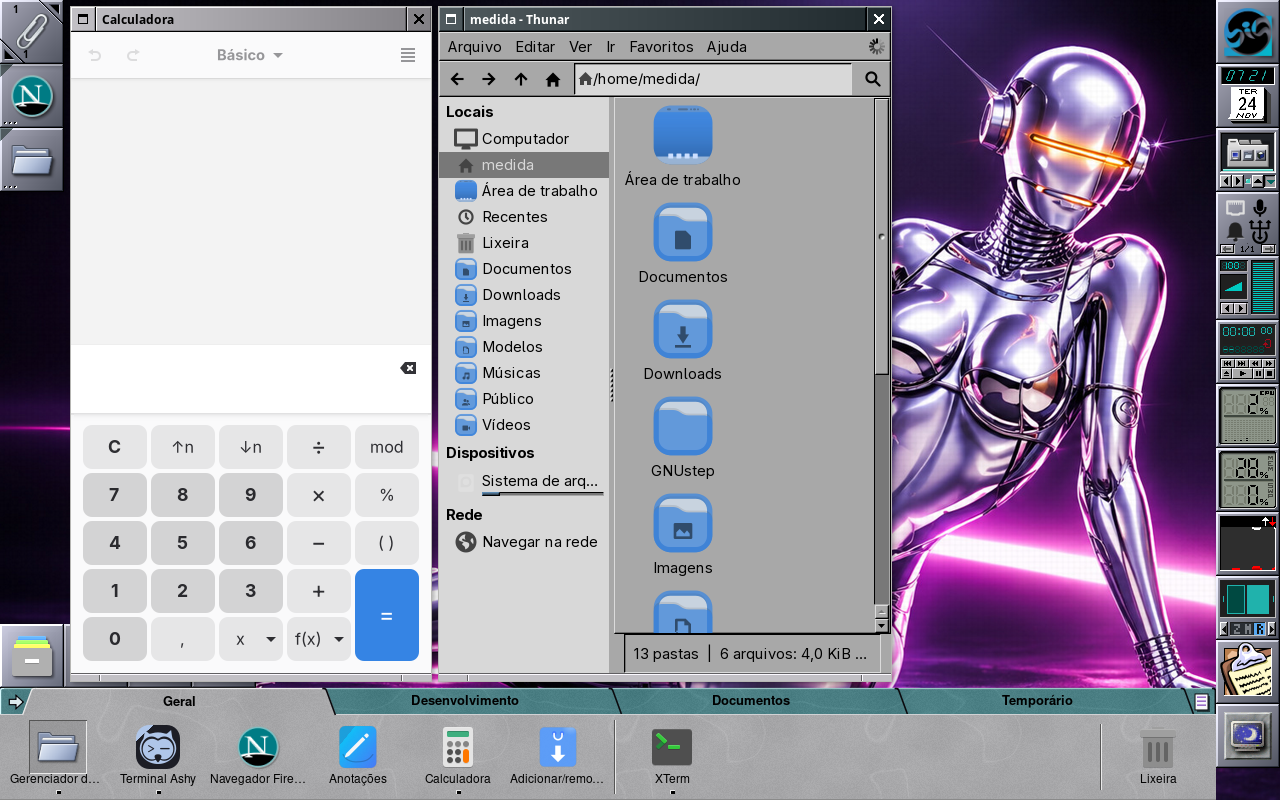
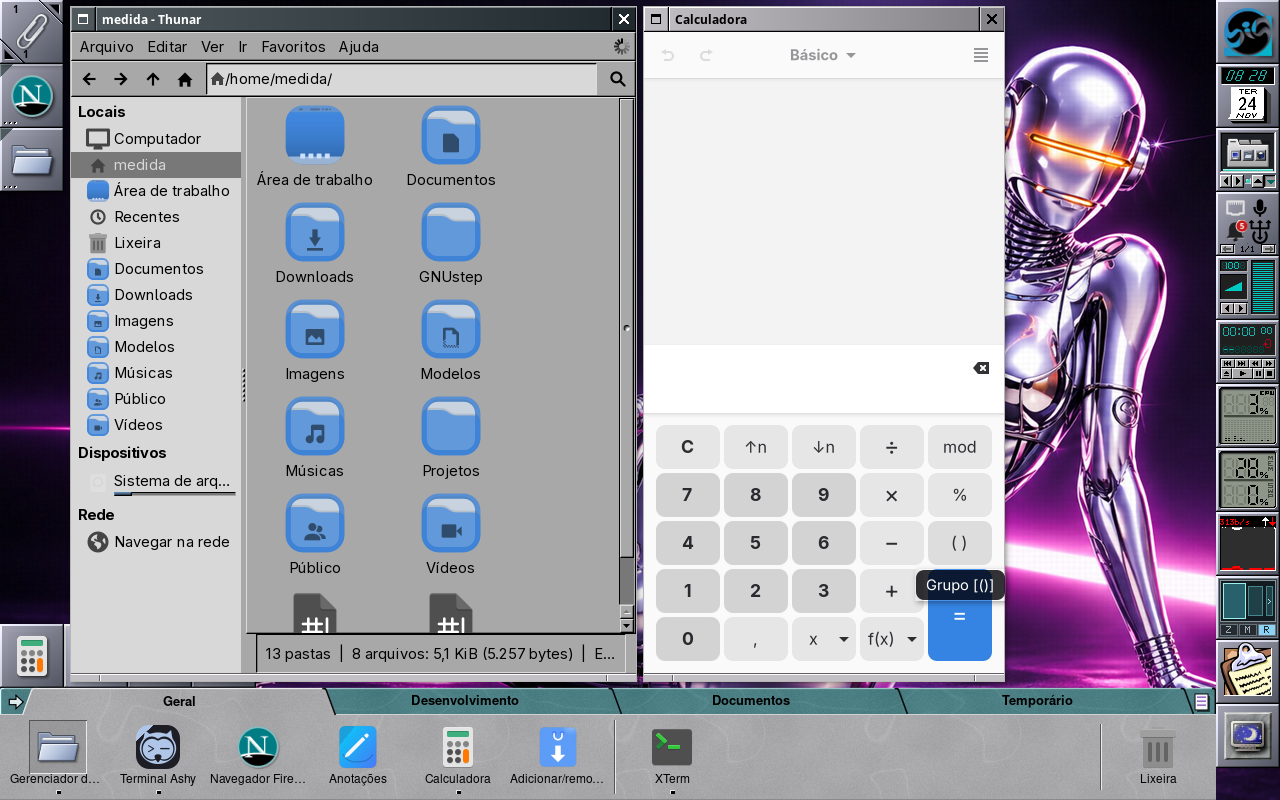
docs: capturas da 0.5.1 na VM (ladrilho do wlmaker e Rolagem no X11)

diff --git a/README.md b/README.md
@@ -75,7 +75,7 @@ sessão real), wmake-zones 0.5.0 e wlmaker -10.
 
 | | |
 |---|---|
-| ![Rolagem no X11: a Calculadora e o Thunar como duas colunas inteiras na tela; o AshyTerm e o xterm esperam fora da tela, e o ladrilho do Dock mostra a tecla R acesa com traços nas bordas para as colunas escondidas](docs/screenshots/x11-rolagem.png) | ![Rolagem no Wayland: o xterm (XWayland) e a Calculadora em colunas, o Thunar e o AshyTerm estacionados fora da tela](docs/screenshots/wayland-rolagem.png) |
+| ![Rolagem no X11: o Thunar e a Calculadora como duas colunas inteiras na tela; o AshyTerm e o xterm esperam fora da tela, e o ladrilho do Dock mostra a tecla R acesa, a coluna ativa clara e a seta para as colunas escondidas à direita](docs/screenshots/x11-rolagem.png) | ![Rolagem no Wayland: o xterm (XWayland) e a Calculadora em colunas, o Thunar e o AshyTerm estacionados fora da tela](docs/screenshots/wayland-rolagem.png) |
 | X11: duas colunas na tela, duas esperando ao lado | Wayland: o mesmo dentro do wlmaker, com um xterm do XWayland |
 
 ![Preferências do wmake-zones na página Rolagem: largura de uma coluna nova, larguras de Aumentar e Diminuir, onde a janela nova abre, alinhamento e espaçamento](docs/screenshots/prefs-rolagem.png)
